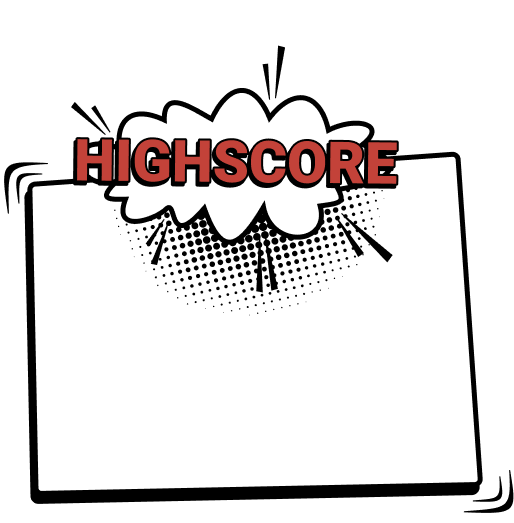
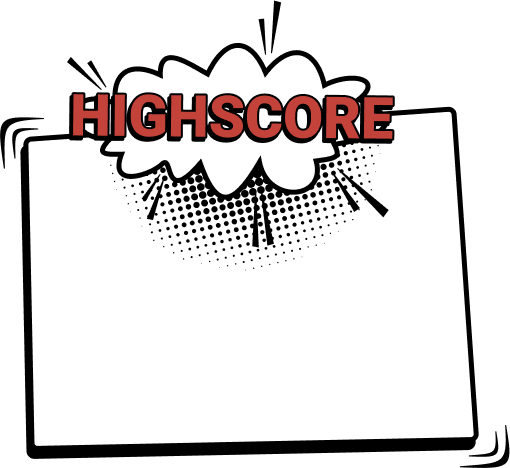
Cropped images, changed padding on start page. /Linnea, Elin, Malin

Changed region(s): [[0.0, 0.0, 1.0, 1.0]]

diff --git a/game.html b/game.html
@@ -18,18 +18,18 @@
         <button class="get-twister-btn">New Twister</button>
         <button class="get-quote-btn">New Quote</button>
         <div class="container-bubble-one">
-            <!-- <img src="Images/bubble left.png" alt="picture of a speech bubble"> -->
+            <img src="Images/bubble left.png" alt="picture of a speech bubble">
             <p class="tongue-twister"></p>
         </div>
 
         <button class="record-btn">Start!</button>
         <div class="container-bubble-two">
-            <!-- <img src="Images/bubble left.png" alt="picture of a speech bubble"> -->
+            <img src="Images/bubble right.png" alt="picture of a speech bubble">
             <p class="speech-output">...</p>
         </div>
 
         <div class="container-score">
-            <!-- <img src="Images/score.png" alt="Score board"> -->
+            <img src="Images/score.png" alt="Score board">
             <p class="score">
             </p>
         </div>
@@ -37,7 +37,7 @@
         <img src="Images/arrow mobile.png" alt="arrows">
 
         <div class="container-high-score">
-            <!-- <img src="Images/highscore.png"> -->
+            <img src="Images/highscore.png">
             <p class="highscore">1. Linnéa, 10p <br> 2. Malin, 9.8p<br> 3. Elin, 9.7p <br> 4. Reda, 2p</p>
         </div>
 

diff --git a/style.css b/style.css
@@ -36,10 +36,12 @@ footer {
   justify-content: center;
   text-align: center;
   height: 94vh;
+  padding: 1.8rem;
+
 }
 
 .logotype img {
-  width: 22rem;
+  width: 100%;
   margin-top: 1.2rem;
 }
 
@@ -56,7 +58,7 @@ footer {
 }
 
 .game-description {
-  padding: 1.8rem;
+  padding: 1.8rem 0rem;
   font-size: 0.65rem;
   /* text-align: justify; */
   line-height: 1.4rem;
@@ -66,4 +68,8 @@ footer {
 .logotype-small {
   width: 15rem;
   margin-top: 1.2rem;
+}
+
+.container-bubble-one img, .container-bubble-two img {
+  width: 80vw;
 }
